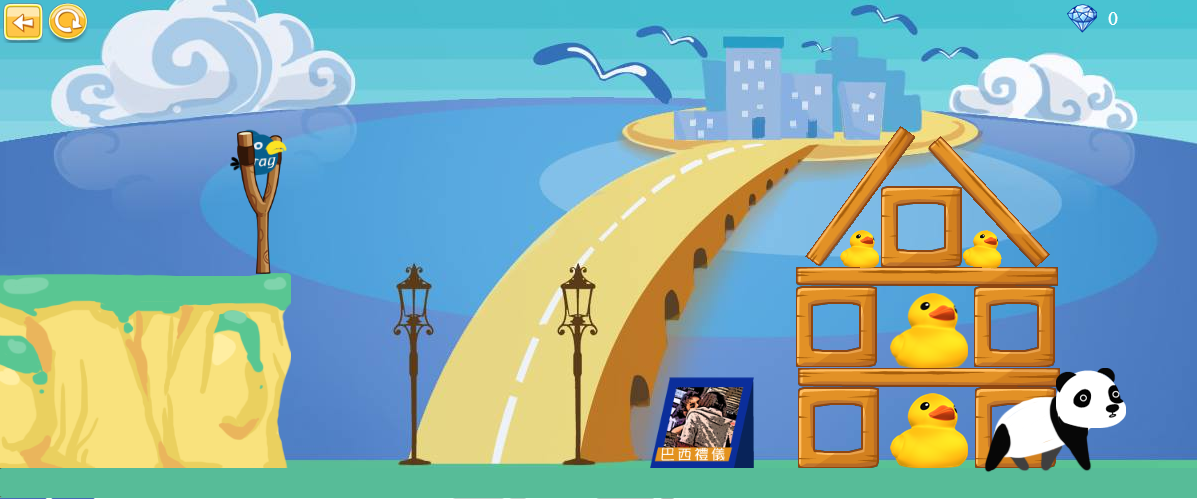
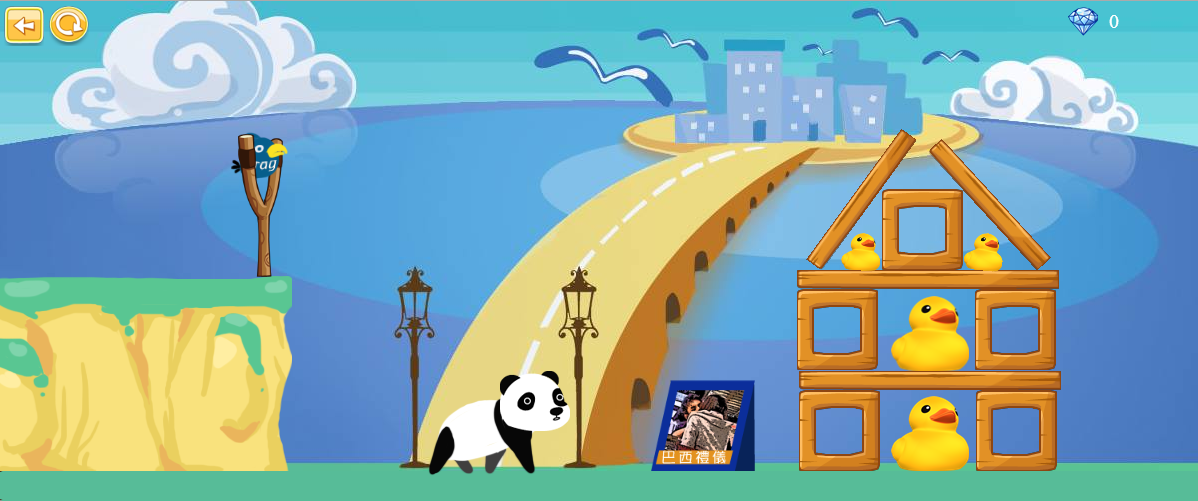
add min, change screenshot.png, burn rate

diff --git a/game.min.js b/game.min.js
@@ -1,0 +1,1 @@
+var CMenu=cc.Sprite.extend({defaultScale:.8,hovered:false,boundingBox:null,onClickCallback:null,ctor:function(e){this._super();this.initWithTexture(e);this.setScale(this.defaultScale)},onClick:function(e){this.onClickCallback=e},handleTouches:function(e,t){this.hovered&&this.onClickCallback&&this.onClickCallback()},handleTouchesMoved:function(e,t){var n=e[0].getLocation();this.boundingBox||(this.boundingBox=this.getBoundingBox());if(cc.Rect.CCRectContainsPoint(this.boundingBox,n)){if(!this.hovered){this.hovered=true;this.runAction(cc.ScaleTo.create(.01,1))}}else if(this.hovered){this.hovered=false;this.runAction(cc.ScaleTo.create(.01,this.defaultScale))}},handleTouchesEnded:function(e,t){}});var id=function(e){return document.getElementById(e)};var GameLayer=cc.Layer.extend({birdSprite:null,isDraggingSling:false,birdStartPos:cc.p(260,345.5),slingRadius:{min:20,max:80},slingAngle:{min:cc.DEGREES_TO_RADIANS(250),max:cc.DEGREES_TO_RADIANS(295)},smokeDistance:16,menus:[],url:"http://tomin.github.com/duck/",lastSmoke:null,slingRubber1:null,slingRubber2:null,slingRubber3:null,getTexture:function(e,t){var n=typeof t!=="undefined"?t:"png";return cc.TextureCache.getInstance().addImage("sprites/"+e+"."+n)},addObject:function(e){var t=typeof e.imgtype==="undefined"?"png":e.imgtype,n=cc.Sprite.createWithTexture(this.getTexture(e.name,t));n.setAnchorPoint(e.anchor||cc.p(.5,.5));n.setScaleX(e.scaleX||e.scale||1);n.setScaleY(e.scaleY||e.scale||1);n.setRotation(e.rotation||0);n.setPosition(cc.p(e.x||0,e.y||0));e.shape&&b2.enablePhysicsFor({type:e.type,shape:e.shape,sprite:n,radius:e.radius,density:e.density,userData:e.userData});this.addChild(n,e.z||0);return n},init:function(){this._super();this.removeAllChildrenWithCleanup(true);this.setTouchEnabled(true);var e=cc.Director.getInstance(),t=this,n=e.getWinSize();b2.initWorld();var r=this.addObject({name:"bg",imgtype:"jpg",anchor:cc.p(0,0),z:-1});var i=this.addObject({name:"ground",scaleX:2.5,anchor:cc.p(0,0),type:"static",shape:"box",density:0});var s=this.addObject({name:"platform",y:30,scaleY:1,anchor:cc.p(0,0),type:"static",shape:"box",density:0});var o=this.addObject({name:"sling1",x:284.5,y:224.5,scale:.7,anchor:cc.p(1,0)});var u=this.addObject({name:"sling2",x:268.5,y:281.5,scale:.7,anchor:cc.p(1,0),z:3});var a=this.addObject({name:"wood1",x:840.5,y:71,type:"dynamic",shape:"box",userData:new BodyUserData(GameObjectRoll.Wood,2e3)});var f=this.addObject({name:"wood1",x:1017.5,y:71,type:"dynamic",shape:"box",userData:new BodyUserData(GameObjectRoll.Wood,2e3)});var l=this.addObject({name:"wood2",x:931.5,y:131.5,scaleX:1.3,type:"dynamic",shape:"box",userData:new BodyUserData(GameObjectRoll.Wood,2e3)});var c=this.addObject({name:"wood2",x:931.5,y:251.5,scaleX:1.3,type:"dynamic",shape:"box",userData:new BodyUserData(GameObjectRoll.Wood,2e3)});var h=this.addObject({name:"wood2",x:880,y:330,rotation:-40,scaleX:.8,type:"dynamic",shape:"box",userData:new BodyUserData(GameObjectRoll.Wood,2e3)});var p=this.addObject({name:"wood2",x:980,y:330,rotation:40,scaleX:.8,type:"dynamic",shape:"box",userData:new BodyUserData(GameObjectRoll.Wood,2e3)});var d=this.addObject({name:"wood1",x:840.5,y:200.5,type:"dynamic",shape:"box",userData:new BodyUserData(GameObjectRoll.Wood,2e3)});var v=this.addObject({name:"wood1",x:1017.5,y:200.5,type:"dynamic",shape:"box",userData:new BodyUserData(GameObjectRoll.Wood,2e3)});var m=this.addObject({name:"wood1",x:930,y:300,type:"dynamic",shape:"box",userData:new BodyUserData(GameObjectRoll.Wood,2e3)});var g=this.addObject({name:"enemy",x:931.5,y:71,type:"dynamic",shape:"circle",density:2,userData:new BodyUserData(GameObjectRoll.Enemy,200)});var y=this.addObject({name:"enemy",x:931.5,y:180,type:"dynamic",shape:"circle",density:2,userData:new BodyUserData(GameObjectRoll.Enemy,200)});var b=this.addObject({name:"enemy",x:863,y:280,type:"dynamic",shape:"circle",scale:.5,density:3,userData:new BodyUserData(GameObjectRoll.Enemy,50)});var w=this.addObject({name:"enemy",x:986,y:280,scale:.5,type:"dynamic",shape:"circle",density:2,userData:new BodyUserData(GameObjectRoll.Enemy,50)});var E=this.getTexture("panda_right1"),S=this.getTexture("panda_right2"),x=this.getTexture("panda_left1"),T=this.getTexture("panda_left2");var N=this.addObject({name:"panda_right1",x:40,y:80,z:3});var C=function(){var e=42,t=e/2,n=t*2,r=e/n,i=1080,s=i/2,o=cc.MoveBy.create(t,cc.p(i,0)),u=cc.MoveBy.create(t,cc.p(-i,0)),a=[o,u];N.runAction(cc.Sequence.create(a));setTimeout(C,e*1e3);for(var f=0;f<=e*2;f++){var l=E;if(f<e){l=f%2==0?E:S}else{l=f%2==0?x:T}setTimeout(function(e){return function(){N.setTexture(e)}}(l),f*500)}};C();var k=this.addObject({name:"adboard",x:704.5,y:71,scale:.8,type:"dynamic",shape:"box",userData:new BodyUserData(GameObjectRoll.Enemy,115)});var L=this.addObject({name:"diamond",x:1084.5,y:480.5});this.fireScreenSprite=this.addObject({name:"fire2",x:600,y:-275,z:99});this.birdSprite=this.addObject({name:"bird",x:200,y:345,z:1});this.slingRubber1=this.addObject({name:"sling3",x:278,y:341,scaleY:.7,scaleX:0,anchor:cc.p(1,.5),z:0});this.slingRubber2=this.addObject({name:"sling3",x:250,y:345,scaleY:.7,scaleX:0,anchor:cc.p(1,.5),z:2});this.slingRubber3=null;var A=25,O=new CMenu(this.getTexture("menu_back"));O.setPosition(cc.p(A,n.height-A));O.onClick(function(){window.location.href=this.url});this.addChild(O);this.menus.push(O);var M=new CMenu(this.getTexture("menu_refresh"));M.setPosition(cc.p(70,n.height-A));M.onClick(function(){t.init();id("bill").style.display="none"});this.addChild(M);this.menus.push(M);var _=cc.LabelTTF.create("0","fantasy",20,cc.size(20,20),cc.TEXT_ALIGNMENT_LEFT);_.setPosition(cc.p(n.width-80,n.height-20));_.schedule(function(){var e=parseInt(_.getString());if(e<b2.getUserScore()){_.setString((e+1).toString())}});this.addChild(_);var D=cc.Spawn.create(cc.RotateBy.create(1.5,360),cc.JumpTo.create(1.5,this.birdStartPos,100,1));this.birdSprite.runAction(D);this.scheduleUpdate()},update:function(e){b2.simulate();var t=cc.Director.getInstance(),n=this,r=t.getWinSize();if(this.birdSprite.body){var i=this.birdSprite.body.GetUserData();if(!i||i.isContacted)return;var s=this.birdSprite.getPosition(),o=cc.pSub(s,this.lastSmoke&&this.lastSmoke.getPosition()||cc.p(0,0)),u=cc.pLength(o);if(u>=this.smokeDistance){this.lastSmoke=this.addObject({name:"smoke",x:s.x,y:s.y,scale:Math.random()>=.5?.8:.6})}if(s.x>400&&s.x<420){var a=this.addObject({name:"fire",x:580,y:196,z:3});var f=this.addObject({name:"fire",x:415,y:196,z:3})}if(typeof this.fireflag==="undefined"){this.fireflag=true;setTimeout(function(){n.onFBShow()},8e3)}}},onFBShow:function(){var e=new Date,t=(new Date).toDateString(),n=(new Date).toTimeString().substr(0,7),r=b2.getUserScore(),i=Math.floor(Math.random()*3+3),s=Math.floor(Math.random()*4),o=["北上25.6","北上23.3","南下15.5","南下18.2"],u=o[s],a=this;id("bill").style.display="block";id("date").innerHTML=t;id("time").innerHTML=n;id("time2").innerHTML=n;id("price").innerHTML=i;id("price2").innerHTML=i;id("road").innerHTML=u;id("road2").innerHTML=u;id("score").innerHTML=r;id("fb_share").onclick=this.onFBClick;id("fire").onclick=function(){a.onFire.call(a);return false};id("close").onclick=function(){id("bill").style.display="none";return false}},onFire:function(){var e=6,t=cc.MoveBy.create(e,cc.p(0,800)),n=[t];this.fireScreenSprite.runAction(cc.Sequence.create(n));id("bill").style.display="none";setTimeout(function(){id("container").style.display="none";id("retry").style.display="block"},(e-2)*1e3)},onFBClick:function(){var e=b2.getUserScore(),t="http://tomin.github.io/duck/",n=encodeURIComponent("神送我"+e+"顆鑽石！"),r=encodeURIComponent(t),i=encodeURIComponent("「燒毀！斷開魂結！斷開鎖鍊！」盡在可爆鴨！"),s=encodeURIComponent(t+"images/diamond"+e+".jpg"),o="http://www.facebook.com/sharer.php?s=100&p[title]="+n+"&p[summary]="+i+"&p[url]="+r+"&p[images][0]="+s;window.open(o,"sharer","toolbar=0,status=0,width=626,height=436");return false},onTouchesBegan:function(e,t){this.menus.forEach(function(n){n.handleTouches(e,t)});var n=e[0].getLocation(),r=cc.pSub(this.birdStartPos,n);if((this.isDraggingSling=cc.pLength(r)<this.slingRadius.max)&&!this.birdSprite.body&&!this.slingRubber3){this.slingRubber3=this.addObject({name:"sling3",x:n.x,y:n.y,scaleY:1.5,scaleX:2,anchor:cc.p(0,.5),z:1})}},onTouchesMoved:function(e,t){this.menus.forEach(function(n){n.handleTouchesMoved(e,t)});if(!this.isDraggingSling||this.birdSprite.body)return;var n=e[0].getLocation(),r=cc.pSub(n,this.birdStartPos),i=cc.pLength(r),s=cc.pToAngle(r);s=s<0?Math.PI*2+s:s;i=MathH.clamp(i,this.slingRadius.min,this.slingRadius.max);if(s<=this.slingAngle.max&&s>=this.slingAngle.min){i=this.slingRadius.min}this.birdSprite.setPosition(cc.pAdd(this.birdStartPos,cc.p(i*Math.cos(s),i*Math.sin(s))));var o=function(e,t,n,r){var i=e.getPosition(),s=cc.pSub(t,i),o=cc.pToAngle(s),u=cc.RADIANS_TO_DEGREES(o),a=cc.pLength(s)+(n||8);e.setRotation(-u);e.setScaleX(-(a/e.getContentSize().width));if(r){e.setScaleY(1.1-.7/this.slingRadius.max*a);this.slingRubber3.setRotation(-u);this.slingRubber3.setPosition(cc.pAdd(i,cc.p(a*Math.cos(o),a*Math.sin(o))))}}.bind(this);var u=this.birdSprite.getPosition();o(this.slingRubber2,u,13,true);o(this.slingRubber1,u,0);this.slingRubber1.setScaleY(this.slingRubber2.getScaleY())},onTouchesEnded:function(e,t){this.menus.forEach(function(n){n.handleTouchesEnded(e,t)});if(!this.birdSprite.body&&this.isDraggingSling){this.slingRubber1.setVisible(false);this.slingRubber2.setVisible(false);this.slingRubber3.setVisible(false);b2.enablePhysicsFor({type:"dynamic",shape:"circle",sprite:this.birdSprite,density:15,restitution:.4,userData:new BodyUserData(GameObjectRoll.Bird,250)});var n=cc.pSub(this.birdStartPos,this.birdSprite.getPosition()),r=cc.pMult(n,12),i=this.birdSprite.body.GetWorldCenter();this.birdSprite.body.ApplyImpulse(r,i);this.isDraggingSling=false}},onKeyUp:function(e){},onKeyDown:function(e){}});var GameScene=cc.Scene.extend({onEnter:function(){this._super();var e=new GameLayer;e.init();this.addChild(e)}})

diff --git a/index.html b/index.html
@@ -3,19 +3,19 @@
     <head>
         <title>可愛爆炸小鴨(可爆鴨) Cute Bomb Duck</title>
 		<meta charset="utf-8">
-		<meta content="Duck, Bomb, Cute, Web, Javascript, Joke, Game" name="description">
+		<meta content="Duck, Bomb, Cute, Joke, Game" name="description">
 		<meta content="AngryBird, CuteDuck" name="keywords">
 		<meta content="可爆鴨 Cute Bomb Duck" property="og:title">
-		<meta content="Duck, Bomb, Cute, Web, Javascript, Joke, Game" property="og:description">
+		<meta content="Duck, Bomb, Cute, Joke, Game" property="og:description">
 		<meta content="http://tomin.github.com/duck/images/screenshot.png" property="og:image">
 		<meta content="http://tomin.github.com/duck" property="og:url">		
 		<meta name="viewport" content="width=1300, user-scalable=no">
-		<link rel="stylesheet" type="text/css" href="style.css">			
+		<link rel="stylesheet" type="text/css" href="style.min.css">			
     </head> 
     <body>
 		<div id="container">
 			<canvas id="viewport" height="500" width="1200">
-				<h2 style="text-align:center">Use a better browser!</h2>
+				<h2 style="text-align:center">請升級瀏覽器版本！</h2>
 			</canvas>
 		</div>
 		<div id="retry">
@@ -56,18 +56,12 @@
 			
 			<span class="social-button">
 				<iframe src="http://ghbtns.com/github-btn.html?user=tomin&repo=duck&type=watch&count=true" allowtransparency="true" frameborder="0" scrolling="0" width="140" height="20"></iframe>
-			</span>
-
-			<span class="social-button">
-				<a href="https://twitter.com/share" class="twitter-share-button" data-related="IanLunn" data-dnt="true">Tweet</a>
-				<script>!function(d,s,id){var js,fjs=d.getElementsByTagName(s)[0],p=/^http:/.test(d.location)?'http':'https';if(!d.getElementById(id)){js=d.createElement(s);js.id=id;js.src=p+'://platform.twitter.com/widgets.js';fjs.parentNode.insertBefore(js,fjs);}}(document, 'script', 'twitter-wjs');</script>
-			</span>			
+			</span>	
 		</footer>
 		
 		<script type="text/javascript" src="cocos2d.js"></script>
 		<div id="fb-root"></div>
-		<script>	
-		// fb like
+		<script>
 		(function(d, s, id) {
 		  var js, fjs = d.getElementsByTagName(s)[0];
 		  if (d.getElementById(id)) return;
@@ -77,7 +71,6 @@
 		}(document, 'script', 'facebook-jssdk'));
 		
 
-		//Google Analytics
 		(function(i,s,o,g,r,a,m){i['GoogleAnalyticsObject']=r;i[r]=i[r]||function(){
 		(i[r].q=i[r].q||[]).push(arguments)},i[r].l=1*new Date();a=s.createElement(o),
 		m=s.getElementsByTagName(o)[0];a.async=1;a.src=g;m.parentNode.insertBefore(a,m)

diff --git a/box2d.js b/box2d.js
@@ -1,5 +1,4 @@
-var Box2D={};
-(function(n,r){function p(){}!(Object.prototype.defineProperty instanceof Function)&&(Object.prototype.__defineGetter__ instanceof Function&&Object.prototype.__defineSetter__ instanceof Function)&&(Object.defineProperty=function(m,e,j){j.get instanceof Function&&m.__defineGetter__(e,j.get);j.set instanceof Function&&m.__defineSetter__(e,j.set)});n.inherit=function(m,e){p.prototype=e.prototype;m.prototype=new p;m.prototype.constructor=m};n.generateCallback=function(m,e){return function(){e.apply(m,arguments)}};
+var Box2D={};(function(n,r){function p(){}!(Object.prototype.defineProperty instanceof Function)&&(Object.prototype.__defineGetter__ instanceof Function&&Object.prototype.__defineSetter__ instanceof Function)&&(Object.defineProperty=function(m,e,j){j.get instanceof Function&&m.__defineGetter__(e,j.get);j.set instanceof Function&&m.__defineSetter__(e,j.set)});n.inherit=function(m,e){p.prototype=e.prototype;m.prototype=new p;m.prototype.constructor=m};n.generateCallback=function(m,e){return function(){e.apply(m,arguments)}};
 n.NVector=function(m){m===r&&(m=0);for(var e=Array(m||0),j=0;j<m;++j)e[j]=0;return e};n.is=function(m,e){return null===m?!1:e instanceof Function&&m instanceof e||m.constructor.__implements!=r&&m.constructor.__implements[e]?!0:!1};n.parseUInt=function(m){return Math.abs(parseInt(m))}})(Box2D);var Vector=Array,Vector_a2j_Number=Box2D.NVector;"undefined"===typeof Box2D&&(Box2D={});"undefined"===typeof Box2D.Collision&&(Box2D.Collision={});
 "undefined"===typeof Box2D.Collision.Shapes&&(Box2D.Collision.Shapes={});"undefined"===typeof Box2D.Common&&(Box2D.Common={});"undefined"===typeof Box2D.Common.Math&&(Box2D.Common.Math={});"undefined"===typeof Box2D.Dynamics&&(Box2D.Dynamics={});"undefined"===typeof Box2D.Dynamics.Contacts&&(Box2D.Dynamics.Contacts={});"undefined"===typeof Box2D.Dynamics.Controllers&&(Box2D.Dynamics.Controllers={});"undefined"===typeof Box2D.Dynamics.Joints&&(Box2D.Dynamics.Joints={});
 (function(){function n(){n.b2AABB.apply(this,arguments)}function r(){r.b2Bound.apply(this,arguments)}function p(){p.b2BoundValues.apply(this,arguments);this.constructor===p&&this.b2BoundValues.apply(this,arguments)}function m(){m.b2Collision.apply(this,arguments)}function e(){e.b2ContactID.apply(this,arguments);this.constructor===e&&this.b2ContactID.apply(this,arguments)}function j(){j.b2ContactPoint.apply(this,arguments)}function x(){x.b2Distance.apply(this,arguments)}function c(){c.b2DistanceInput.apply(this,

diff --git a/game.js b/game.js
@@ -311,11 +311,9 @@ var GameLayer = cc.Layer.extend({
         });
 		this.fireScreenSprite = this.addObject({
 			name: "fire2",
-			x: 0,
+			x: 600,
 			y: -275,
-			z: 99,
-			scaleX: 1.5,
-			scaleY: 1						
+			z: 99
 		});		
 
         this.birdSprite = this.addObject({
@@ -465,7 +463,7 @@ var GameLayer = cc.Layer.extend({
 		
 	},	
 	onFire: function() {		
-		var	firetime = 10,
+		var	firetime = 6,
 			actionRMiddle = cc.MoveBy.create(firetime, cc.p(0, 800)),				
 			walkArr = [actionRMiddle];
 			
@@ -475,7 +473,7 @@ var GameLayer = cc.Layer.extend({
 		setTimeout(function() {
 			id("container").style.display = "none";
 			id("retry").style.display = "block";
-		}, firetime * 1000);		
+		}, (firetime - 2) * 1000);		
 	},		
 	onFBClick: function() {	
 		var score = b2.getUserScore(),

diff --git a/style.min.css b/style.min.css
@@ -1,0 +1,1 @@
+*{margin:0;padding:0}body,html{height:100%:width:100%}#bill{position:absolute;top:15%;left:50%;margin-left:-11em;z-index:5;padding:1em;height:16em;width:22em;background:url(sprites/form.jpg) #add8e6;display:none}#bill h1{margin-bottom:1.1em}table{width:100%}table tr{text-align:center}td{padding:.2em}#close{position:absolute;top:0;right:.1em;border:1px solid #666;padding:.1em .6em;font-size:1.4em;text-decoration:none;color:#000}#retry{margin-top:1em;font-size:5em;text-align:center;display:none}.button{display:block;padding:10px;margin:15px;float:left;font-size:18px;font-weight:700;text-align:center;text-decoration:none;color:#FFF}.facebook{width:150px;background:#3b5998}#fire{width:80px;background:#c8232c}

diff --git a/cocos2d.js b/cocos2d.js
@@ -7,7 +7,7 @@
         frameRate: 60,
         tag: 'viewport',		
         SingleEnginFile: 'cocos2dx.lib.min.js',
-        appFiles: ['resources.js', 'b2.js', 'game.js']
+        appFiles: ['resources.js', 'b2.js', 'game.min.js']
     };
     window.addEventListener('DOMContentLoaded', function () {
         var s = d.createElement('script');

diff --git a/b2.js b/b2.js
@@ -1,5 +1,3 @@
-// Author: www.mahdi7s.com
-
 var MathH = {
     clamp: function (num, min, max) {
         return Math.min(max, Math.max(num, min));

diff --git a/style.css b/style.css
@@ -6,9 +6,6 @@ html, body{
 	height: 100%:
 	width: 100%;
 }
-.fb-like {
-	/*margin-bottom: 30px;*/
-}
 #bill{
 	position:absolute;
 	top:15%;				
